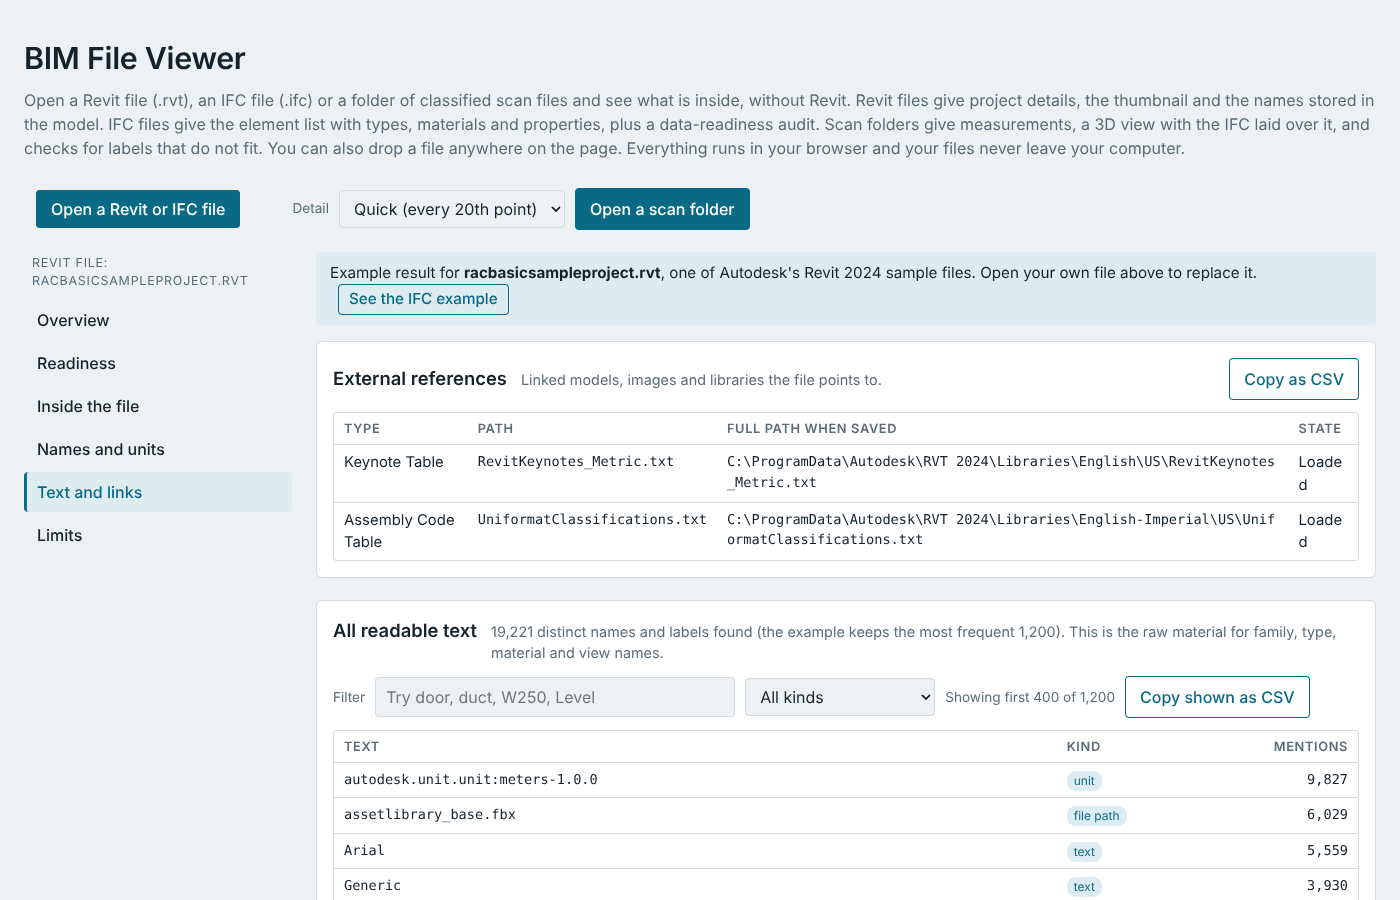
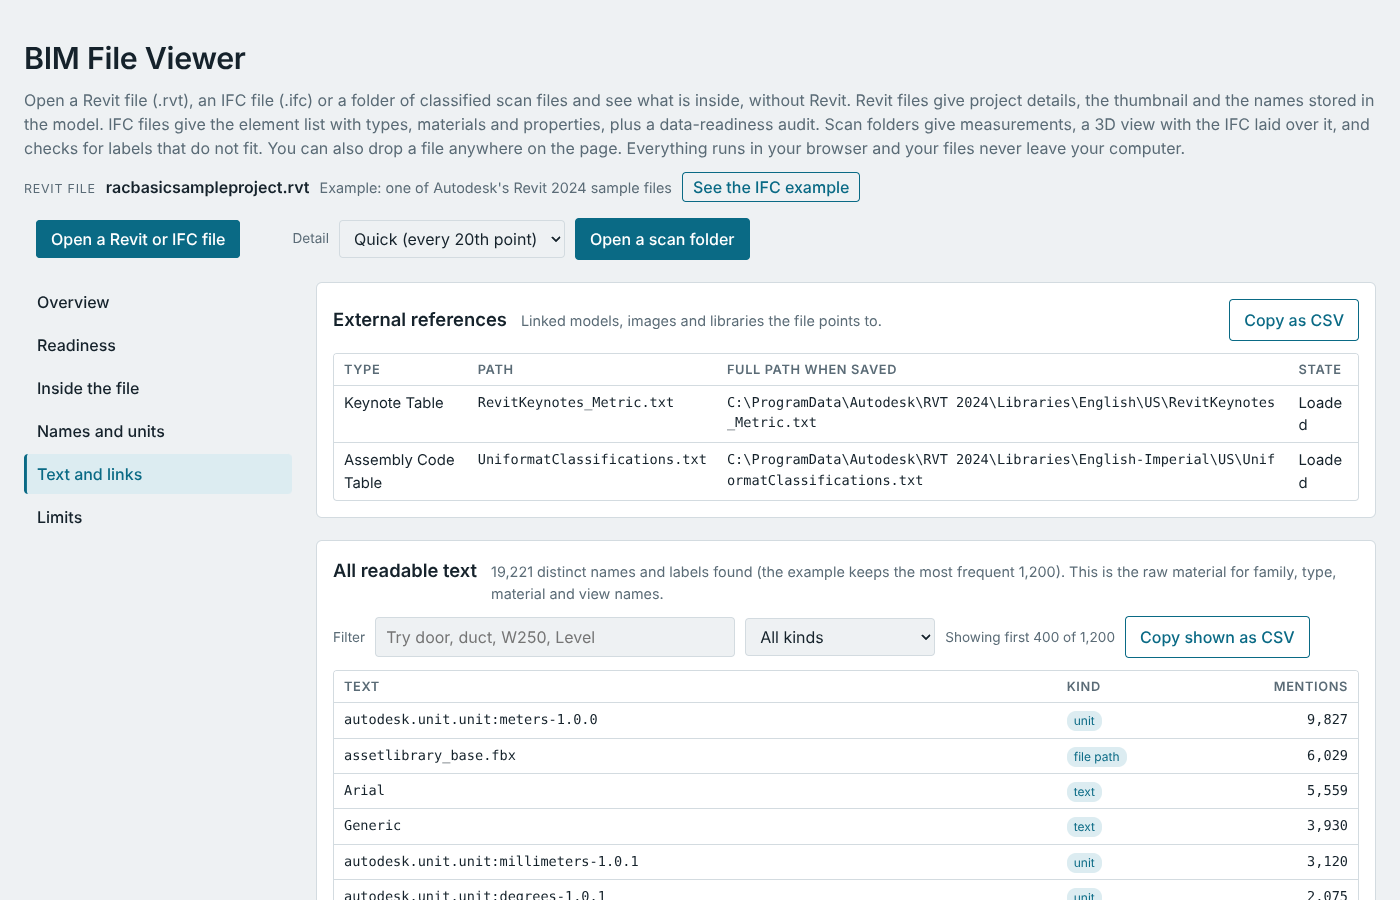
Show current file above the buttons for the startup examples too; drop the menu title
Claude-Session: https://claude.ai/code/session_01EhrZVCndNZQfJK6kUnVYUM

Changed region(s): [[0.0, 0.1867, 0.9829, 1.0], [0.6757, 0.7467, 0.9829, 1.0], [0.5221, 0.7467, 0.5836, 0.8089]]

diff --git a/dist/index.html b/dist/index.html
@@ -1889,7 +1889,7 @@ tr.det td { background: var(--bg); }
       map.get(n).forEach(k => d.appendChild(k)); holder.appendChild(d);
     }
     out.appendChild(holder);
-    $('nav').innerHTML = '<div class="navtitle">' + esc(title) + '</div>' + names.map(n => '<button type="button" class="navbtn" data-screen-go="' + esc(n) + '">' + esc(n) + (badges && badges[n] ? '<span class="badge">' + esc(String(badges[n])) + '</span>' : '') + '</button>').join('');
+    $('nav').innerHTML = names.map(n => '<button type="button" class="navbtn" data-screen-go="' + esc(n) + '">' + esc(n) + (badges && badges[n] ? '<span class="badge">' + esc(String(badges[n])) + '</span>' : '') + '</button>').join('');
     let start = names[0];
     try { const sv = localStorage.getItem('bimviewer.screen.' + kind); if (sv && names.includes(sv)) start = sv; } catch (e) { /* storage may be unavailable */ }
     goScreen(start, true);
@@ -2349,15 +2349,15 @@ tr.det td { background: var(--bg); }
   }
 
   const openState = {};
-  function markOpen(which, name, kind, detail) {
-    openState[which] = { name, kind, detail };
+  function markOpen(which, name, kind, detail, opts) {
+    openState[which] = { name, kind, detail, go: opts && opts.go };
     const L = $('loadedline');
     L.hidden = false;
     L.innerHTML = ['file', 'scan'].filter(k => openState[k]).map(k => {
       const o = openState[k];
-      return '<div class="li"><span class="lk">' + esc(o.kind) + '</span><span class="ln">' + esc(o.name) + '</span><span class="ld">' + esc(o.detail) + '</span></div>';
+      return '<div class="li"><span class="lk">' + esc(o.kind) + '</span><span class="ln">' + esc(o.name) + '</span><span class="ld">' + esc(o.detail) + '</span>' + (o.go ? '<button class="ghost" type="button" data-go="' + o.go + '" style="padding:2px 10px">' + (o.go === 'ifc' ? 'See the IFC example' : 'See the Revit example') + '</button>' : '') + '</div>';
     }).join('');
-    document.querySelector('header').classList.add('loaded');
+    document.querySelector('header').classList.toggle('loaded', !(opts && opts.sample));
   }
   async function loadScan(files) {
     const st = $('sstatus'), pw = $('sprogwrap'), pr = $('sprog');
@@ -2463,13 +2463,13 @@ tr.det td { background: var(--bg); }
   ['dragleave', 'drop'].forEach(t => document.addEventListener(t, e => { e.preventDefault(); drop.classList.remove('over'); }));
   document.addEventListener('drop', e => { const f = e.dataTransfer.files[0]; if (f) load(f); });
 
-  const GO_IFC = ' <button class="ghost" type="button" data-go="ifc" style="margin-left:8px;padding:3px 10px">See the IFC example</button>';
-  const GO_RVT = ' <button class="ghost" type="button" data-go="rvt" style="margin-left:8px;padding:3px 10px">See the Revit example</button>';
-  function showRvtSample() { render(SAMPLE, 'Example result for <strong>racbasicsampleproject.rvt</strong>, one of Autodesk\'s Revit 2024 sample files. Open your own file above to replace it.' + GO_IFC); }
-  function showIfcSample() { renderIfc(SAMPLE_IFC, 'Example result for <strong>L1_C106_IFC.ifc</strong>, a Revit 2023 export of one classroom. Open your own file above to replace it.' + GO_RVT); }
-  $('out').addEventListener('click', e => {
+  function showRvtSample() { render(SAMPLE, null); markOpen('file', 'racbasicsampleproject.rvt', 'Revit file', 'Example: one of Autodesk\'s Revit 2024 sample files', { sample: true, go: 'ifc' }); }
+  function showIfcSample() { renderIfc(SAMPLE_IFC, null); markOpen('file', 'L1_C106_IFC.ifc', 'IFC file', 'Example: a Revit 2023 export of one classroom', { sample: true, go: 'rvt' }); }
+  document.addEventListener('click', e => {
     const b = e.target.closest('[data-go]');
-    if (b) { if (b.dataset.go === 'ifc') showIfcSample(); else showRvtSample(); return; }
+    if (b) { if (b.dataset.go === 'ifc') showIfcSample(); else showRvtSample(); }
+  });
+  $('out').addEventListener('click', e => {
     const row = e.target.closest('tr.row');
     if (row && row.nextElementSibling && row.nextElementSibling.classList.contains('det')) row.nextElementSibling.hidden = !row.nextElementSibling.hidden;
   });

diff --git a/src/template.html b/src/template.html
@@ -430,7 +430,7 @@ tr.det td { background: var(--bg); }
       map.get(n).forEach(k => d.appendChild(k)); holder.appendChild(d);
     }
     out.appendChild(holder);
-    $('nav').innerHTML = '<div class="navtitle">' + esc(title) + '</div>' + names.map(n => '<button type="button" class="navbtn" data-screen-go="' + esc(n) + '">' + esc(n) + (badges && badges[n] ? '<span class="badge">' + esc(String(badges[n])) + '</span>' : '') + '</button>').join('');
+    $('nav').innerHTML = names.map(n => '<button type="button" class="navbtn" data-screen-go="' + esc(n) + '">' + esc(n) + (badges && badges[n] ? '<span class="badge">' + esc(String(badges[n])) + '</span>' : '') + '</button>').join('');
     let start = names[0];
     try { const sv = localStorage.getItem('bimviewer.screen.' + kind); if (sv && names.includes(sv)) start = sv; } catch (e) { /* storage may be unavailable */ }
     goScreen(start, true);
@@ -890,15 +890,15 @@ tr.det td { background: var(--bg); }
   }
 
   const openState = {};
-  function markOpen(which, name, kind, detail) {
-    openState[which] = { name, kind, detail };
+  function markOpen(which, name, kind, detail, opts) {
+    openState[which] = { name, kind, detail, go: opts && opts.go };
     const L = $('loadedline');
     L.hidden = false;
     L.innerHTML = ['file', 'scan'].filter(k => openState[k]).map(k => {
       const o = openState[k];
-      return '<div class="li"><span class="lk">' + esc(o.kind) + '</span><span class="ln">' + esc(o.name) + '</span><span class="ld">' + esc(o.detail) + '</span></div>';
+      return '<div class="li"><span class="lk">' + esc(o.kind) + '</span><span class="ln">' + esc(o.name) + '</span><span class="ld">' + esc(o.detail) + '</span>' + (o.go ? '<button class="ghost" type="button" data-go="' + o.go + '" style="padding:2px 10px">' + (o.go === 'ifc' ? 'See the IFC example' : 'See the Revit example') + '</button>' : '') + '</div>';
     }).join('');
-    document.querySelector('header').classList.add('loaded');
+    document.querySelector('header').classList.toggle('loaded', !(opts && opts.sample));
   }
   async function loadScan(files) {
     const st = $('sstatus'), pw = $('sprogwrap'), pr = $('sprog');
@@ -1004,13 +1004,13 @@ tr.det td { background: var(--bg); }
   ['dragleave', 'drop'].forEach(t => document.addEventListener(t, e => { e.preventDefault(); drop.classList.remove('over'); }));
   document.addEventListener('drop', e => { const f = e.dataTransfer.files[0]; if (f) load(f); });
 
-  const GO_IFC = ' <button class="ghost" type="button" data-go="ifc" style="margin-left:8px;padding:3px 10px">See the IFC example</button>';
-  const GO_RVT = ' <button class="ghost" type="button" data-go="rvt" style="margin-left:8px;padding:3px 10px">See the Revit example</button>';
-  function showRvtSample() { render(SAMPLE, 'Example result for <strong>racbasicsampleproject.rvt</strong>, one of Autodesk\'s Revit 2024 sample files. Open your own file above to replace it.' + GO_IFC); }
-  function showIfcSample() { renderIfc(SAMPLE_IFC, 'Example result for <strong>L1_C106_IFC.ifc</strong>, a Revit 2023 export of one classroom. Open your own file above to replace it.' + GO_RVT); }
-  $('out').addEventListener('click', e => {
+  function showRvtSample() { render(SAMPLE, null); markOpen('file', 'racbasicsampleproject.rvt', 'Revit file', 'Example: one of Autodesk\'s Revit 2024 sample files', { sample: true, go: 'ifc' }); }
+  function showIfcSample() { renderIfc(SAMPLE_IFC, null); markOpen('file', 'L1_C106_IFC.ifc', 'IFC file', 'Example: a Revit 2023 export of one classroom', { sample: true, go: 'rvt' }); }
+  document.addEventListener('click', e => {
     const b = e.target.closest('[data-go]');
-    if (b) { if (b.dataset.go === 'ifc') showIfcSample(); else showRvtSample(); return; }
+    if (b) { if (b.dataset.go === 'ifc') showIfcSample(); else showRvtSample(); }
+  });
+  $('out').addEventListener('click', e => {
     const row = e.target.closest('tr.row');
     if (row && row.nextElementSibling && row.nextElementSibling.classList.contains('det')) row.nextElementSibling.hidden = !row.nextElementSibling.hidden;
   });

diff --git a/tests/pw_layout.js b/tests/pw_layout.js
@@ -29,7 +29,7 @@ const shots = process.env.SHOTS || '.';
   await pg.click('#nav >> text=Text and links'); expect(await pg.isVisible('#qtable table'), 'revit: text table visible');
   await pg.screenshot({ path: path.join(shots, 'layout_revit.png') });
 
-  await pg.click('#out [data-go=ifc]').catch(() => {});
+  await pg.click('[data-go=ifc]').catch(() => {});
   await pg.waitForSelector('#nav >> text=Model contents');
   console.log('ifc nav', await names());
   await pg.click('#nav >> text=Elements'); expect(await pg.isVisible('#etable table'), 'ifc: elements visible');
